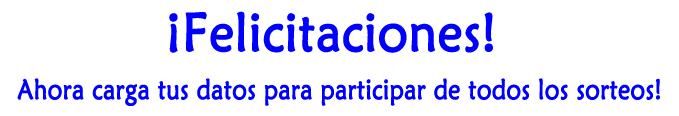
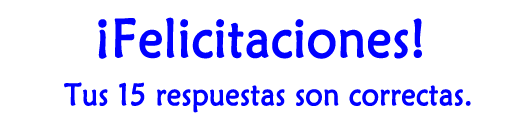
Se agregan nuevas cosas.

Changed region(s): [[0.1815, 0.1034, 0.8166, 0.4914], [0.0, 0.6466, 0.9981, 0.931]]

diff --git a/index.html b/index.html
@@ -18,13 +18,11 @@
 	    <div class="mainHomeBody">
 		<div class="triviaTextContainer">
 		    <a href="pregunta.php">
-			<img src="images/participa_y_gana.png" alt="Participa y Gana" />
+			<img src="images/home.png" alt="Participa" />
 		    </a>
 		</div>
 		<div class="giftContainer">
-		    <a href="premios.html">
-			<img src="images/premios.png" alt="Premios" />
-		    </a>
+
 		</div>
 		<div class="clear"></div>    
 		<div class="instruccionesContainer">
@@ -40,7 +38,7 @@
 	    <div class="homeTextFooter">
 		Actividad dirigida exclusivamente a escolares de todo el pa&iacute;s. Desarrollada con el objetivo de sensibilizar, informar
 		y generar cultura de prevenci&oacute;n en materia de seguridad vial. Organizada por SURCO Seguros y con el respaldo de UNASEV
-		en el marco de la SNSV. Aplicaci&oacute;n operativa desde el 3&deg; al 31 de octubre 2013.
+		en el marco de la SNSV.
 	    </div>
         </div>
 <script type="text/javascript">

diff --git a/premios.html b/premios.html
@@ -2,6 +2,7 @@
     "http://www.w3.org/TR/xhtml1/DTD/xhtml1-transitional.dtd">
 <html xmlns="http://www.w3.org/1999/xhtml">
     <head>
+	<meta http-equiv="refresh" content="0; url=http://www.surco.com.uy/trivia/" />
         <title>Surco premios</title>
 	<link rel="shortcut icon" href="favicon.ico" >
 	<link rel="stylesheet" type="text/css" href="css/styles.css" />
@@ -9,6 +10,7 @@
 
     <body>
         <div class="container">
+<!--
 			<div class="headerPremios">
 				<div class="headerPremiosText">PREMIOS</div>
 				<div class="headerBodyPremiosText">PREMIOS DIARIOS - PREMIOS SEMANALES - PREMIO FINAL</div>
@@ -68,6 +70,7 @@
 			<div class="extraPremiosFooter">
 			    Todas las fotograf&iacute;as son meramente ilustrativas, y podr&iacute;an no coicidir ex&aacute;ctamente con los premios.
 			</div>
+-->
         </div>
 <script type="text/javascript">
 

diff --git a/formulario.php b/formulario.php
@@ -1,4 +1,6 @@
 <?php
+header("Location: index.html");
+die();
 session_start();
 
 if(((!isset($_SESSION['lastQuestionNumber']) && !isset($_SESSION['lastQuestionAnswers'])) || $_SESSION['lastQuestionAnswers'] != 15))

diff --git a/pregunta.php b/pregunta.php
@@ -1,5 +1,6 @@
 <?php
-
+header("Location: http://www.surco.com.uy/trivia/");
+die();
 session_start();
 
 error_reporting(E_ALL);
